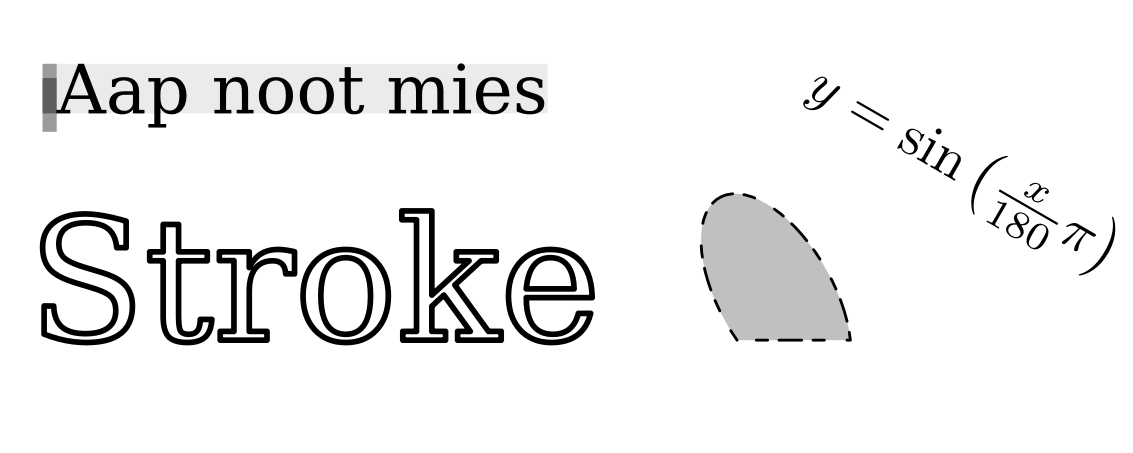
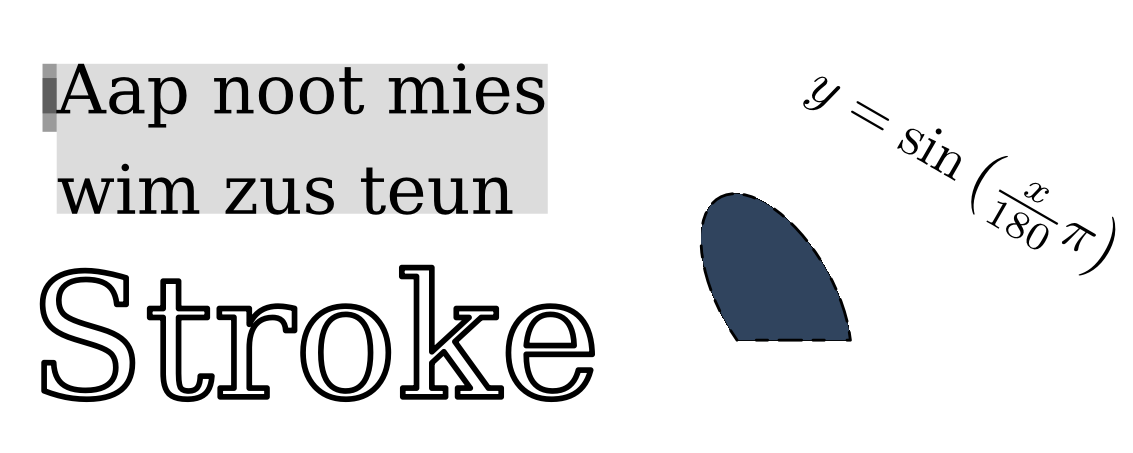
Fix text newline direction, add SVG tspan, add colors, fix colors in PDF

Changed region(s): [[0.0309, 0.2472, 0.5252, 0.8962], [0.6178, 0.4327, 0.7723, 0.7726]]

diff --git a/canvas.go b/canvas.go
@@ -9,6 +9,7 @@ import (
 	"image/color"
 	"io"
 	"strconv"
+	"strings"
 
 	"golang.org/x/image/vector"
 )
@@ -20,9 +21,7 @@ const InchPerMm = 1 / 25.4
 
 var (
 	Black            color.Color = color.RGBA{0, 0, 0, 255}
-	DarkGrey         color.Color = color.RGBA{64, 64, 64, 255}
 	Grey             color.Color = color.RGBA{128, 128, 128, 255}
-	LightGrey        color.Color = color.RGBA{192, 192, 192, 255}
 	White            color.Color = color.RGBA{0, 0, 0, 255}
 	Red              color.Color = color.RGBA{255, 0, 0, 255}
 	Lime             color.Color = color.RGBA{0, 255, 0, 255}
@@ -31,6 +30,19 @@ var (
 	Magenta          color.Color = color.RGBA{255, 0, 255, 255}
 	Cyan             color.Color = color.RGBA{0, 255, 255, 255}
 	BlackTransparent color.Color = color.RGBA{0, 0, 0, 128}
+	DimGrey          color.Color = color.RGBA{105, 105, 105, 255}
+	DarkGrey         color.Color = color.RGBA{169, 169, 169, 255}
+	Silver           color.Color = color.RGBA{192, 192, 192, 255}
+	LightGrey        color.Color = color.RGBA{211, 211, 211, 255}
+	Gainsboro        color.Color = color.RGBA{220, 220, 220, 255}
+	WhiteSmoke       color.Color = color.RGBA{245, 245, 245, 255}
+	SteelBlue        color.Color = color.RGBA{70, 130, 180, 128}
+	SlateGrey        color.Color = color.RGBA{112, 128, 144, 128}
+	LightSteelBlue   color.Color = color.RGBA{176, 196, 222, 128}
+	LightSlateGrey   color.Color = color.RGBA{119, 136, 153, 128}
+	DarkSlateBlue    color.Color = color.RGBA{72, 61, 139, 128}
+	DarkSlateGrey    color.Color = color.RGBA{47, 79, 79, 128}
+	OrangeRed        color.Color = color.RGBA{255, 69, 0, 128}
 )
 
 func writeCSSColor(w io.Writer, c color.Color) {
@@ -160,6 +172,7 @@ func (c *C) WriteSVG(w io.Writer) {
 		} else if l.t == textLayer {
 			// TODO: use tspan for newlines
 			name, style, size := l.fontFace.Info()
+			lineHeight := l.fontFace.Metrics().LineHeight
 			w.Write([]byte("<text x=\""))
 			writeFloat64(w, l.x)
 			w.Write([]byte("\" y=\""))
@@ -187,9 +200,10 @@ func (c *C) WriteSVG(w io.Writer) {
 				w.Write([]byte("\" fill=\""))
 				writeCSSColor(w, l.color)
 			}
-			w.Write([]byte("\">"))
-			w.Write([]byte(l.text))
-			w.Write([]byte("</text>"))
+			w.Write([]byte("\"><tspan>"))
+			text := strings.Replace(l.text, "\n", fmt.Sprintf(`</tspan><tspan x="%.5g" dy="%.5g">`, l.x, lineHeight), -1)
+			w.Write([]byte(text))
+			w.Write([]byte("</tspan></text>"))
 		}
 	}
 	w.Write([]byte("</svg>"))
@@ -203,14 +217,14 @@ func (c *C) WritePDF(writer io.Writer) error {
 	for _, l := range c.layers {
 		R, G, B, _ := color.RGBA()
 		r, g, b, a := l.color.RGBA()
-		if a != 65535.0 {
-			gs := pdf.GetOpacityGS(float64(a) / 65535.0)
-			buf.WriteString(fmt.Sprintf(" q /%v gs", gs))
-		}
 		if r != R || g != G || b != B {
 			buf.WriteString(" ")
 			writePSColor(buf, l.color)
 			buf.WriteString(" rg")
+		}
+		if a != 65535.0 {
+			gs := pdf.GetOpacityGS(float64(a) / 65535.0)
+			buf.WriteString(fmt.Sprintf(" q /%v gs", gs))
 		}
 		if l.color != color {
 			color = l.color

diff --git a/example/example.go b/example/example.go
@@ -3,6 +3,7 @@ package main
 import (
 	"fmt"
 	"image/color"
+	"image/png"
 	"os"
 
 	"github.com/tdewolff/canvas"
@@ -32,17 +33,17 @@ func main() {
 	////////////////
 
 	// SLOW
-	//pngFile, err := os.Create("example.png")
-	//if err != nil {
-	//	panic(err)
-	//}
-	//defer pngFile.Close()
+	pngFile, err := os.Create("example.png")
+	if err != nil {
+		panic(err)
+	}
+	defer pngFile.Close()
 
-	//img := c.WriteImage(144.0)
-	//err = png.Encode(pngFile, img)
-	//if err != nil {
-	//	panic(err)
-	//}
+	img := c.WriteImage(144.0)
+	err = png.Encode(pngFile, img)
+	if err != nil {
+		panic(err)
+	}
 
 	////////////////
 
@@ -86,8 +87,8 @@ func drawText(c *canvas.C, x, y float64, size float64, text string) {
 	metrics := face.Metrics()
 	w, h := face.Bounds(text)
 
-	c.SetColor(color.RGBA{0, 0, 0, 20})
-	c.DrawPath(x, y, 0.0, canvas.Rectangle(0, 0, w, h))
+	c.SetColor(canvas.Gainsboro)
+	c.DrawPath(x, y, 0.0, canvas.Rectangle(0, metrics.CapHeight, w, -h))
 	c.SetColor(color.RGBA{0, 0, 0, 100})
 	c.DrawPath(x, y, 0.0, canvas.Rectangle(0, metrics.CapHeight, -2.5, -metrics.Height))
 	c.DrawPath(x, y, 0.0, canvas.Rectangle(0, 0, -2.5, metrics.XHeight))
@@ -98,12 +99,12 @@ func drawText(c *canvas.C, x, y float64, size float64, text string) {
 }
 
 func Draw(c *canvas.C) {
-	drawText(c, 10, 60, 12.0, "Aap noot mies")
+	drawText(c, 10, 60, 12.0, "Aap noot mies\nwim zus teun")
 
 	face := dejaVuSerif.Face(30)
 	c.SetFont(face)
 	p := face.ToPath("Stroke")
-	c.DrawPath(5, 20, 0.0, p.Stroke(1, canvas.RoundCapper, canvas.RoundJoiner))
+	c.DrawPath(5, 10, 0.0, p.Stroke(1, canvas.RoundCapper, canvas.RoundJoiner))
 
 	latex, err := canvas.ParseLaTeX(`$y = \sin\left(\frac{x}{180}\pi\right)$`)
 	if err != nil {
@@ -117,7 +118,7 @@ func Draw(c *canvas.C) {
 	if err != nil {
 		panic(err)
 	}
-	c.SetColor(canvas.LightGrey)
+	c.SetColor(canvas.LightSteelBlue)
 	c.DrawPath(130, 20, 0.0, ellipse)
 	ellipse = ellipse.Dash(2.0, 4.0, 2.0).Stroke(0.5, canvas.RoundCapper, canvas.RoundJoiner)
 	c.SetColor(canvas.Black)

diff --git a/font.go b/font.go
@@ -193,20 +193,20 @@ func (ff FontFace) ToPath(s string) *Path {
 						p.Close()
 					}
 					end = fromP26_6(segment.Args[0])
-					p.MoveTo(x+end.X, -y-end.Y)
+					p.MoveTo(x+end.X, y-end.Y)
 					start0 = end
 				case sfnt.SegmentOpLineTo:
 					end = fromP26_6(segment.Args[0])
-					p.LineTo(x+end.X, -y-end.Y)
+					p.LineTo(x+end.X, y-end.Y)
 				case sfnt.SegmentOpQuadTo:
 					c := fromP26_6(segment.Args[0])
 					end = fromP26_6(segment.Args[1])
-					p.QuadTo(x+c.X, -y-c.Y, x+end.X, -y-end.Y)
+					p.QuadTo(x+c.X, y-c.Y, x+end.X, y-end.Y)
 				case sfnt.SegmentOpCubeTo:
 					c0 := fromP26_6(segment.Args[0])
 					c1 := fromP26_6(segment.Args[1])
 					end = fromP26_6(segment.Args[2])
-					p.CubeTo(x+c0.X, -y-c0.Y, x+c1.X, -y-c1.Y, x+end.X, -y-end.Y)
+					p.CubeTo(x+c0.X, y-c0.Y, x+c1.X, y-c1.Y, x+end.X, y-end.Y)
 				}
 			}
 			if !p.Empty() && start0.Equals(end) {
